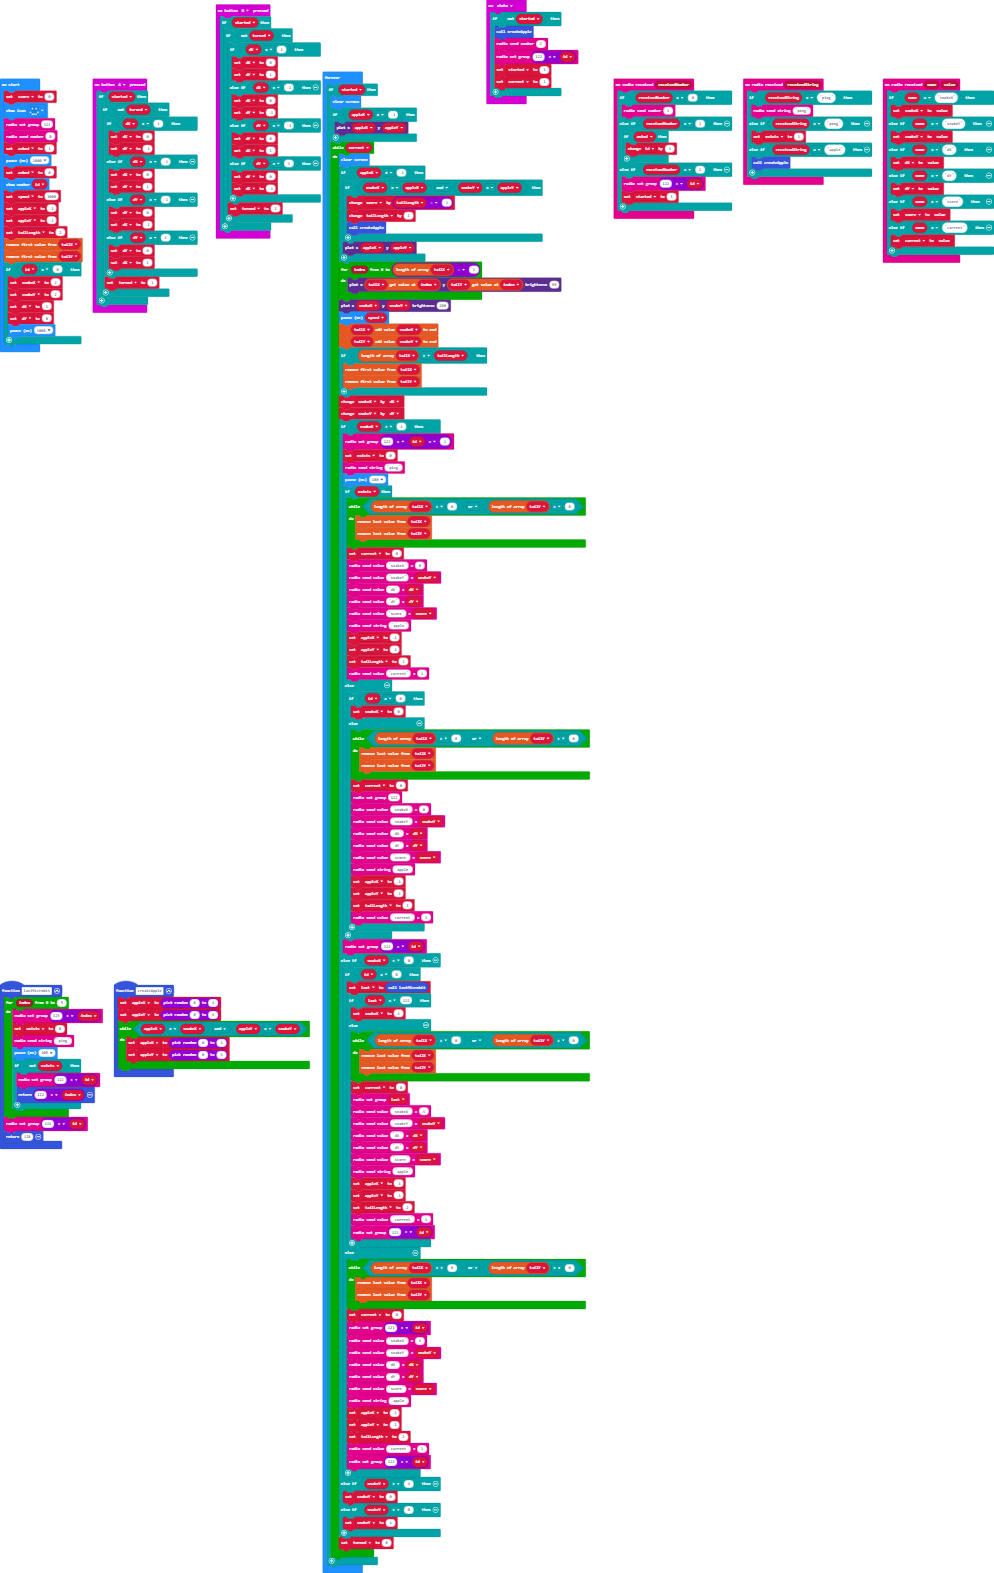
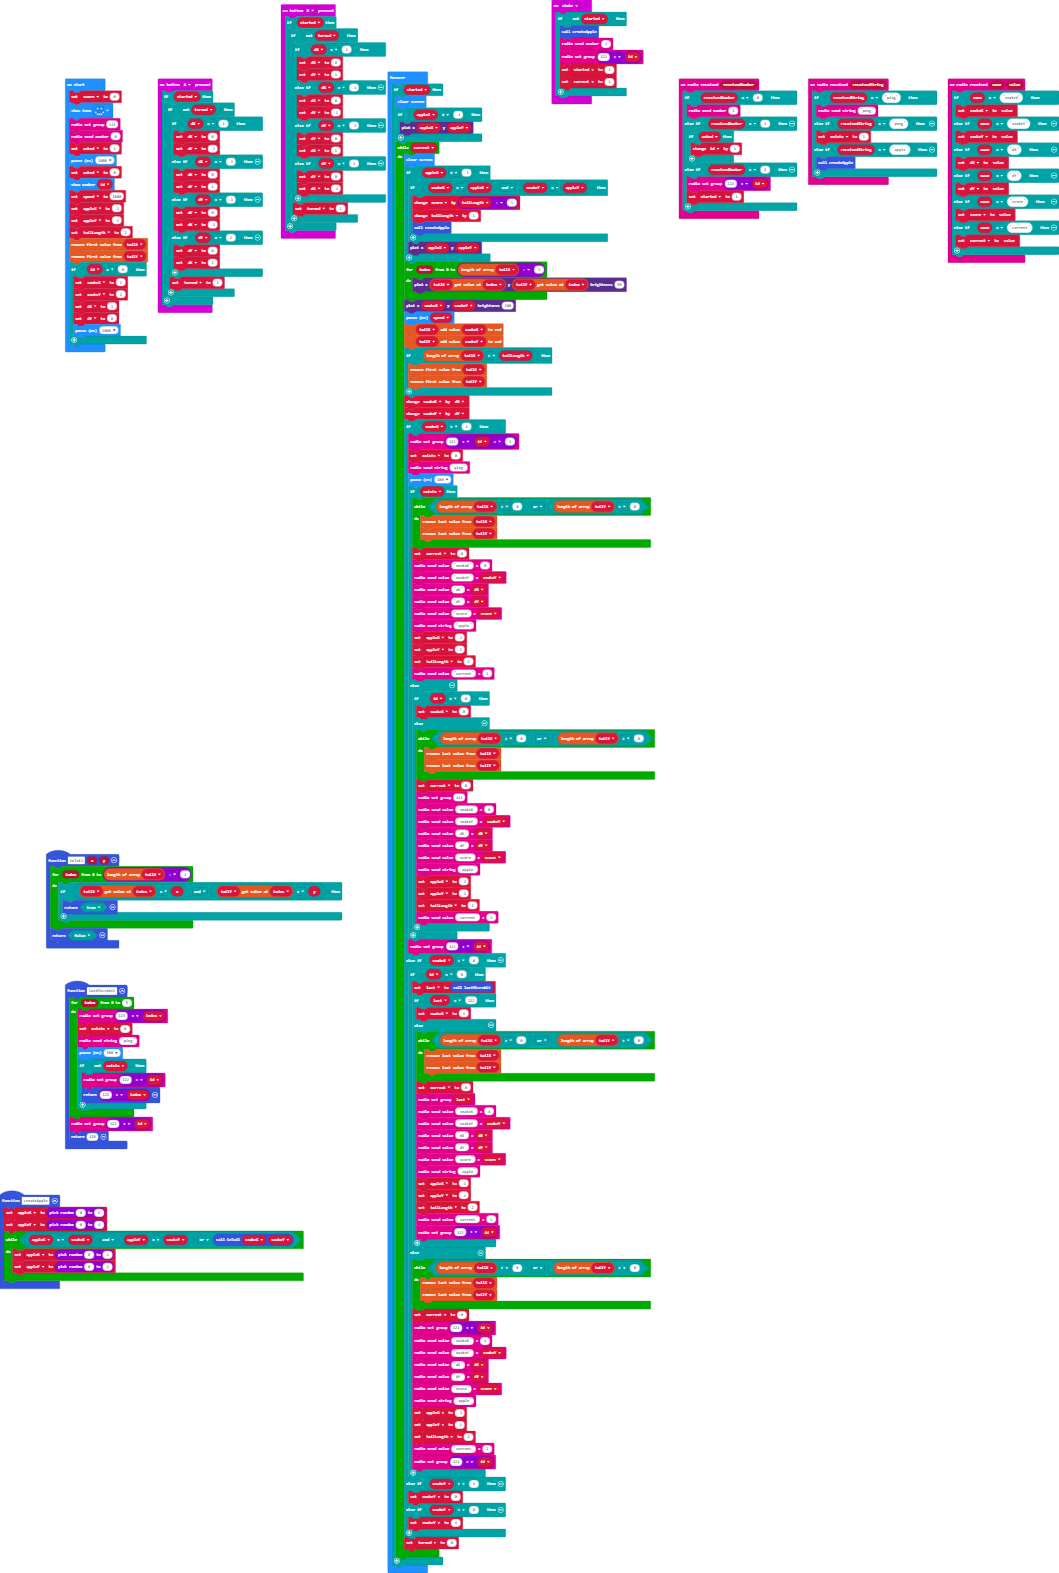
apple can no longer generate in tail

Changed region(s): [[0.0, 0.0, 0.9668, 1.0]]

diff --git a/main.ts b/main.ts
@@ -48,10 +48,18 @@ function lastMicrobit () {
     radio.setGroup(122 + id)
     return 128
 }
+function inTail (x: number, y: number) {
+    for (let index = 0; index <= tailX.length - 1; index++) {
+        if (tailX[index] == x && tailY[index] == y) {
+            return true
+        }
+    }
+    return false
+}
 function createApple () {
     appleX = randint(0, 4)
     appleY = randint(0, 4)
-    while (appleX == snakeX && appleY == snakeY) {
+    while (appleX == snakeX && appleY == snakeY || inTail(snakeX, snakeY)) {
         appleX = randint(0, 4)
         appleY = randint(0, 4)
     }
